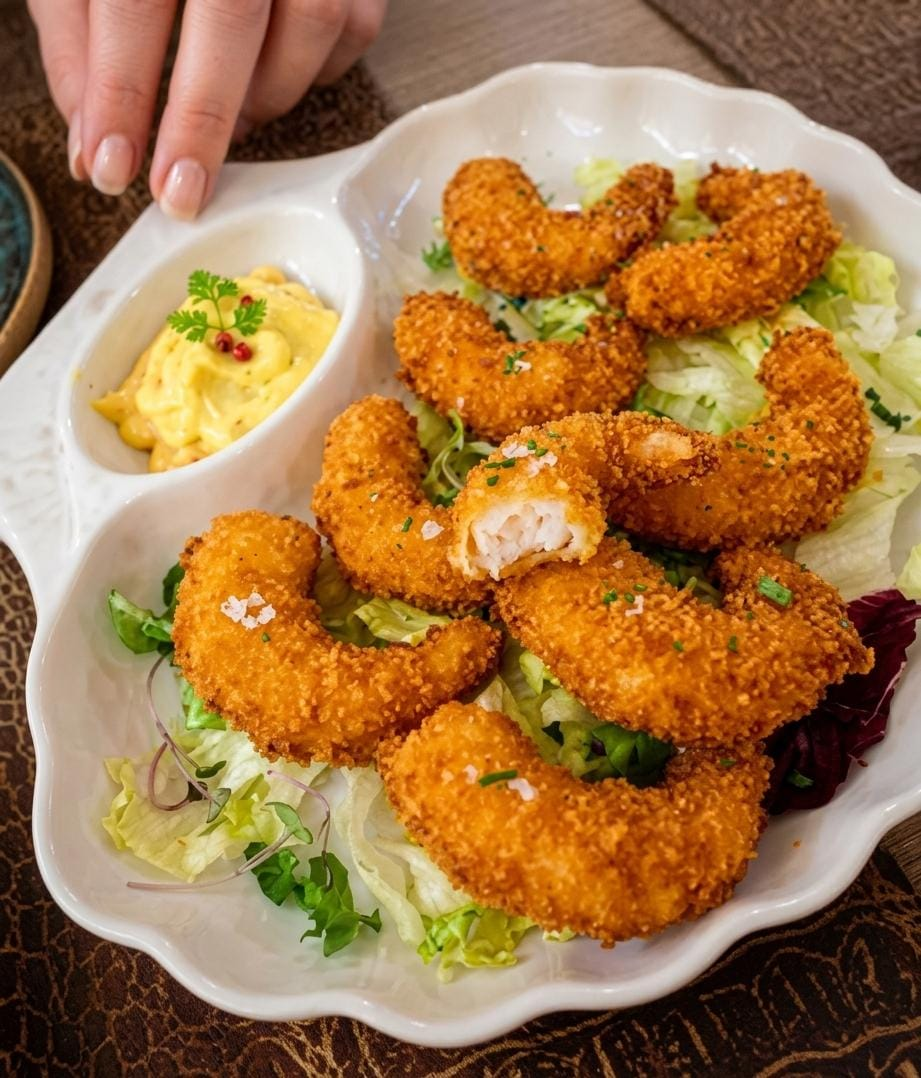
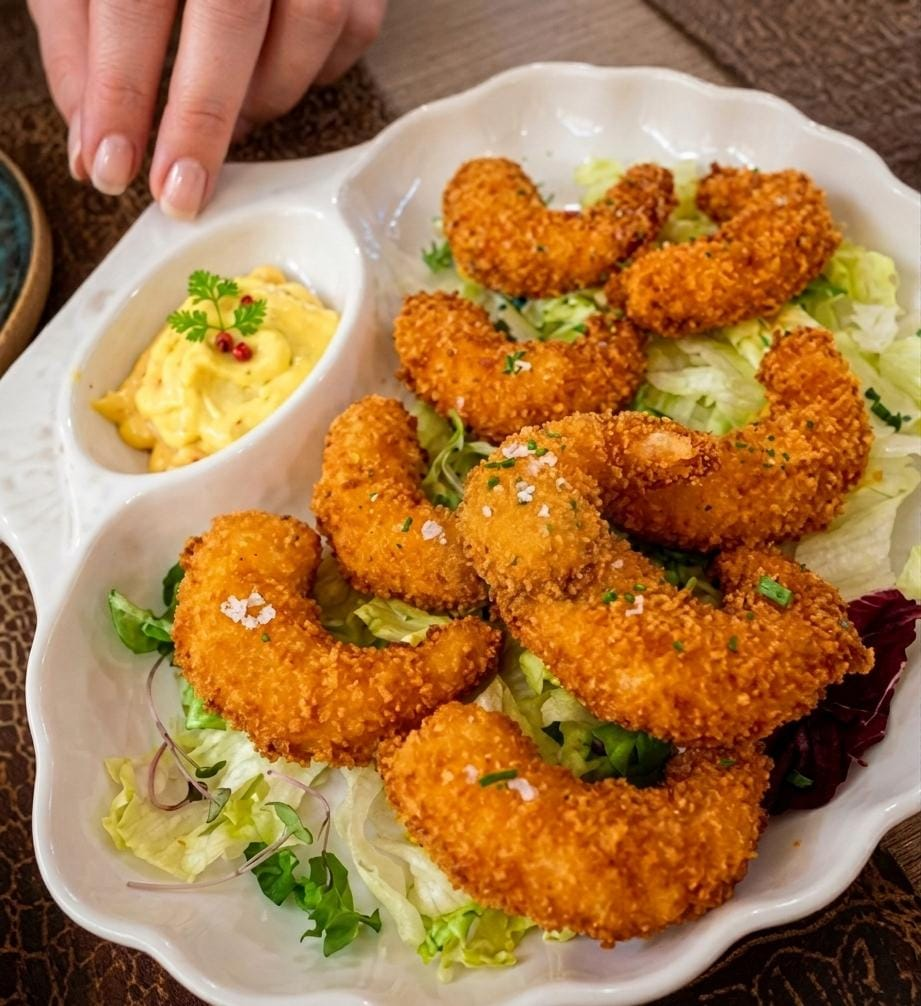
update

diff --git a/index.html b/index.html
@@ -53,23 +53,23 @@
 
       <h1
         class="hero-title"
-        data-es="Especialistas en carne a la piedra"
-        data-en="Specialists in stone-grilled meat"
+        data-es="Vive la mejor experiencia de carne a la piedra"
+        data-en="Enjoy the best stone-grilled meat experience"
       >
-        Especialistas en carne a la piedra
+        Vive la mejor experiencia de carne a la piedra
       </h1>
 
       <p
         class="hero-subtitle"
-        data-es="Cocina italiana y mexicana en Guardamar del Segura."
-        data-en="Italian and Mexican cuisine in Guardamar del Segura."
+        data-es="Cocina italiana y mexicana."
+        data-en="Italian and Mexican cuisine."
       >
-        Cocina italiana y mexicana en  Guardamar del Segura.
+        Cocina italiana y mexicana.
       </p>
 
       <div class="hero-buttons">
         <a
-          href="#contacto"
+          href="https://wa.me/34622319813"
           class="btn btn-primary btn-lg"
           data-es="☎ Reservar mesa"
           data-en="☎ Book a table"
@@ -348,10 +348,13 @@
               </strong>
 
               <span
-                data-es="Todos los días · 12:00 - 23:30"
-                data-en="Every day · 12:00 PM - 11:30 PM"
+                data-es="Todos los días · 12:00 - 16:00 y 18:00 - 00:00 
+                         Los martes · 12:00 - 16:00 y 17:00 - 23:00"
+                data-en="Every day · 12:00 - 16:00 and 18:00 - 00:00 
+                         Tuesdays · 12:00 - 16:00 and 17:00 - 23:00"
               >
-                Todos los días · 12:00 - 23:30
+                Todos los días · 12:00 - 16:00 y 18:00 - 00:00 <br>
+                Los martes · 12:00 - 16:00 y 17:00 - 23:00
               </span>
             </div>
           </li>
@@ -1702,7 +1705,7 @@
   </div>
 </div>
 <!-- ===== BOTÓN FLOTANTE DE RESERVA ===== -->
-<a href="#contacto" class="floating-reserve-btn" data-es="Reservar Mesa" data-en="Book a Table">Reservar Mesa</a>
+<a href="https://wa.me/34622319813" class="floating-reserve-btn" data-es="Reservar Mesa" data-en="Book a Table">Reservar Mesa</a>
 <script src="script.js"></script>
 </body>
 </html>

diff --git a/style.css b/style.css
@@ -331,9 +331,13 @@ h4 {
 .hero-subtitle {
   max-width: 650px;
   margin: 0 auto 38px;
-  color: rgba(248, 238, 220, 0.86);
-  font-size: 1.2rem;
-  line-height: 1.6;
+  color: rgba(248, 238, 220, 0.9);
+  font-family: "Cormorant Garamond", serif;
+  font-size: 1.5rem;
+  font-weight: 500;
+  font-style: italic;
+  letter-spacing: 1px;
+  line-height: 1.5;
 }
 
 .hero-buttons {
